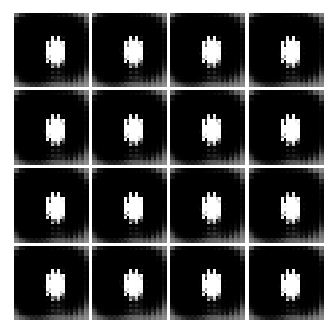
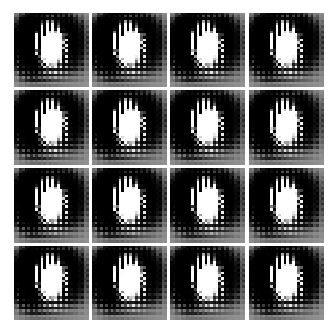
not working

diff --git a/wGAN_mnist.py b/wGAN_mnist.py
@@ -99,14 +99,15 @@ for epoch in range(EPOCHS):
 	for i, (examples, _) in enumerate(TRAIN_LOADER):
 		curr_hash = hash(examples[0])
 		if curr_hash == old_hash:
-			raise ValueError('Got same hash between batches!!!')
+			# raise ValueError('Got same hash between batches!!!')
+			print("same hash", "batch #:", i, "epoch:", epoch)
 		old_hash = curr_hash
 
 		reset_grad()
 		D_labels_real, D_labels_fake = propagate(examples)
 
 		if (i % 5) != 0: #train discrminator more EXPLAIN
-			D_loss = -(torch.mean(D_labels_real) - torch.mean(D_labels_fake))
+			D_loss = (torch.mean(D_labels_real) - torch.mean(D_labels_fake))
 			D_loss.backward()
 			D_solver.step()
 			#weight clipping 
@@ -114,11 +115,11 @@ for epoch in range(EPOCHS):
 				p.data.clamp_(-.01, .01)
 			continue
 
-		G_loss = -torch.mean(D_labels_fake)
+		G_loss = torch.mean(D_labels_fake)
 		G_loss.backward()
 		G_solver.step()
 
-		if i % 1000 == 0:
+		if i % 10 == 0:
 			if i != 0:
 				print("Generator Loss:", G_loss.detach().numpy())
 				print("Discriminator Loss:", D_loss.detach().numpy())
@@ -127,6 +128,7 @@ for epoch in range(EPOCHS):
 			gs.update(wspace=.05, hspace=.05)
 
 			images = generator(torch.randn(16, NOISE_DIM)).data.numpy()
+			print(images.shape)
 			for img_num, sample in enumerate(images):
 				ax = plt.subplot(gs[img_num])
 				plt.axis('off')
